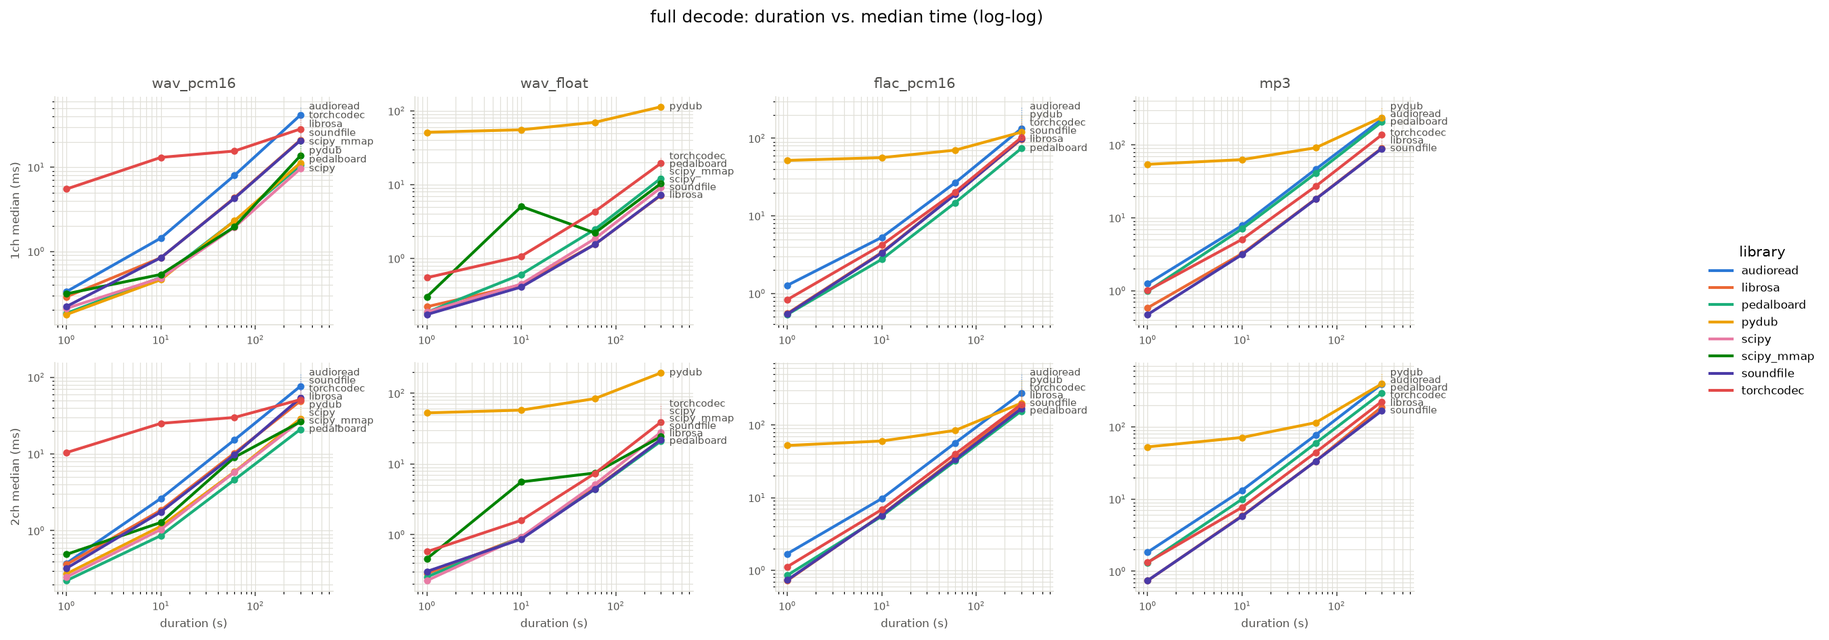
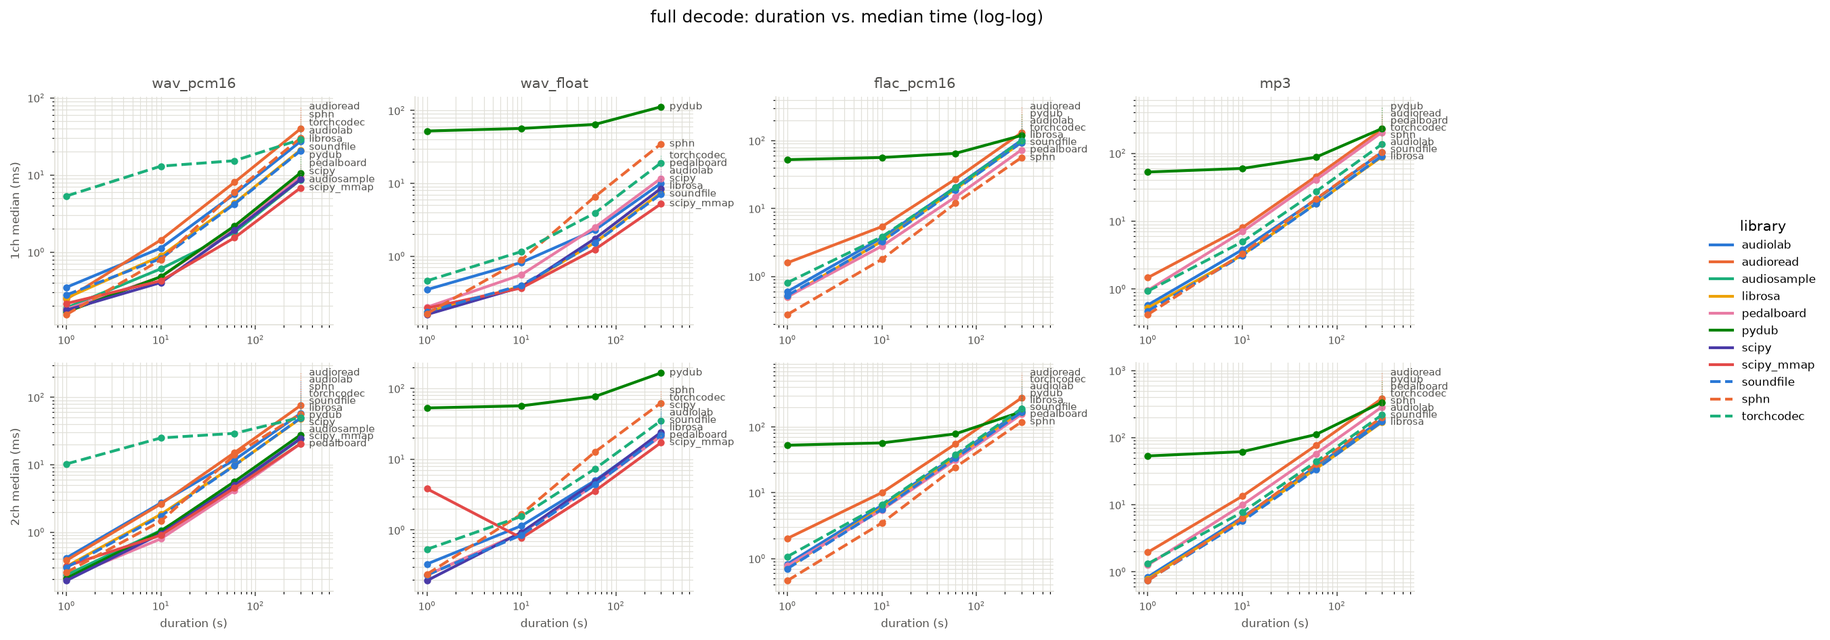
Add audiolab, audiosample and sphn; re-measure with eleven libraries
sphn is the strongest seeker by a wide margin on compressed formats:
0.98 ms for a 1 s excerpt of a 300 s MP3 against pedalboard's 92.01 ms,
and essentially flat with file duration. It is also the fastest full-file
FLAC reader, though near the back of the field on whole WAV files.

audiosample handles integer-PCM WAV only here; float WAV, FLAC and MP3
route through its PyAV path, which raises against PyAV 18. Those results
are reported as errors with that reason rather than hidden.

diff --git a/pabench/loaders.py b/pabench/loaders.py
@@ -495,7 +495,14 @@ def _probe_audiosample() -> Loader:
     name = "audiosample"
     layout: Layout = "channels_first"
     formats = _WAV_ONLY
-    notes = "WAV only here: its PyAV path is incompatible with PyAV 18 (Flags.FAST_SEEK)"
+    # Its own parser handles integer-PCM WAV; everything else (float WAV, flac, mp3)
+    # falls through to PyAV, which raises AttributeError against PyAV 18. Declared
+    # WAV-only at container level, so float WAV still reaches the loader and is
+    # reported as an error with that reason rather than hidden.
+    notes = (
+        "integer-PCM WAV only: float WAV, FLAC and MP3 go through its PyAV path, "
+        "which is incompatible with PyAV 18 (Flags.FAST_SEEK)"
+    )
     try:
         import audiosample
         from audiosample import AudioSample

diff --git a/results/report.md b/results/report.md
@@ -25,112 +25,115 @@ Timings below are wall-clock, warm-page-cache decodes of a locally generated **s
 | audioread | 3.1.0 | yes | no | full-file only, no seek API; audioread always yields 16-bit PCM buffers, so it cannot pass the exact gate for 24-bit or float32 WAV sources | - |
 | pedalboard | 0.9.25 | yes | yes | - | - |
 | torchcodec | 0.16.0 | yes | yes | imports cleanly even when its native FFmpeg bindings can't load; only the decode smoke test below catches that (see docs/refactor-design.md) | - |
+| audiolab | 0.5.2 | yes | yes | - | - |
+| audiosample | 2.2.12 | yes | yes | WAV only here: its PyAV path is incompatible with PyAV 18 (Flags.FAST_SEEK) | - |
+| sphn | 0.2.1 | yes | yes | MP3 decode returns a different frame count than soundfile's reference (decoder-delay disagreement); graded by the relaxed MP3 gate | - |
 
 **MP3 is graded by a relaxed gate** (decoded duration within 50 ms of the reference, RMS level within 0.5 dB on the common length) rather than the sample-exact gate WAV and FLAC are held to (1.5 LSB for integer PCM, `atol=1e-7` for float32), because MP3 decoders disagree on encoder delay and never match sample-for-sample. MP3 results therefore carry a weaker correctness guarantee than the WAV/FLAC results in this report.
 
 ## wav_pcm16 / full
 
-| Duration (s) | Channels | soundfile | librosa | scipy | scipy_mmap | pydub | audioread | pedalboard | torchcodec |
-| --- | --- | --- | --- | --- | --- | --- | --- | --- | --- |
-| 1 | 1 | 0.22 ms [0.21–0.26] | 0.29 ms [0.22–5.96] | 0.21 ms [0.15–0.48] | 0.31 ms [0.26–4.94] | 0.18 ms [0.15–0.23] | 0.33 ms [0.31–0.41] | 0.18 ms [0.17–0.56] | 5.51 ms [5.48–6.04] |
-| 1 | 2 | 0.32 ms [0.31–0.59] | 0.36 ms [0.32–0.41] | 0.25 ms [0.22–3.72] | 0.49 ms [0.35–5.30] | 0.27 ms [0.21–0.34] | 0.38 ms [0.36–0.45] | 0.22 ms [0.20–0.32] | 10.42 ms [10.21–11.18] |
-| 10 | 1 | 0.84 ms [0.82–0.90] | 0.84 ms [0.81–0.93] | 0.48 ms [0.44–1.67] | 0.53 ms [0.48–4.19] | 0.46 ms [0.43–0.51] | 1.44 ms [1.37–1.68] | 0.49 ms [0.46–0.54] | 13.09 ms [12.91–13.34] |
-| 10 | 2 | 1.76 ms [1.73–1.85] | 1.85 ms [1.79–5.88] | 1.04 ms [0.98–1.42] | 1.28 ms [0.95–6.14] | 1.14 ms [1.04–1.53] | 2.64 ms [2.62–2.77] | 0.86 ms [0.83–1.07] | 25.06 ms [24.85–27.82] |
-| 60 | 1 | 4.27 ms [4.24–4.71] | 4.33 ms [4.28–4.63] | 1.93 ms [1.86–21.95] | 1.96 ms [1.65–7.55] | 2.31 ms [2.19–5.00] | 7.99 ms [7.87–8.37] | 2.30 ms [2.07–2.94] | 15.58 ms [15.39–18.32] |
-| 60 | 2 | 9.77 ms [9.62–10.26] | 10.26 ms [9.90–19.80] | 5.78 ms [5.10–7.10] | 9.04 ms [4.87–11.30] | 5.85 ms [5.60–6.28] | 15.24 ms [14.94–16.34] | 4.60 ms [4.13–5.14] | 29.91 ms [29.15–65.78] |
-| 300 | 1 | 20.83 ms [20.60–58.89] | 21.12 ms [20.70–28.87] | 9.62 ms [8.82–15.62] | 13.70 ms [8.86–16.42] | 11.30 ms [10.35–18.28] | 41.71 ms [40.71–49.22] | 10.52 ms [9.63–13.69] | 28.48 ms [27.74–38.63] |
-| 300 | 2 | 53.84 ms [48.05–144.48] | 49.15 ms [48.19–51.03] | 26.98 ms [24.35–32.47] | 26.23 ms [25.13–42.16] | 28.88 ms [27.91–116.00] | 76.42 ms [74.45–87.67] | 20.96 ms [20.21–25.25] | 51.12 ms [49.80–67.43] |
+| Duration (s) | Channels | soundfile | librosa | scipy | scipy_mmap | pydub | audioread | pedalboard | torchcodec | audiolab | audiosample | sphn |
+| --- | --- | --- | --- | --- | --- | --- | --- | --- | --- | --- | --- | --- |
+| 1 | 1 | 0.28 ms [0.25–0.50] | 0.25 ms [0.22–0.34] | 0.18 ms [0.15–0.26] | 0.22 ms [0.17–4.63] | 0.17 ms [0.15–0.24] | 0.25 ms [0.24–0.27] | 0.18 ms [0.17–0.23] | 5.34 ms [5.32–5.66] | 0.35 ms [0.32–0.47] | 0.19 ms [0.14–0.41] | 0.16 ms [0.13–0.19] |
+| 1 | 2 | 0.30 ms [0.28–0.38] | 0.31 ms [0.29–0.37] | 0.19 ms [0.18–0.22] | 0.31 ms [0.24–7.13] | 0.21 ms [0.20–0.25] | 0.38 ms [0.36–3.96] | 0.21 ms [0.20–0.23] | 10.27 ms [10.21–10.53] | 0.42 ms [0.41–0.49] | 0.23 ms [0.19–0.46] | 0.25 ms [0.22–0.34] |
+| 10 | 1 | 0.83 ms [0.79–1.03] | 0.89 ms [0.86–1.30] | 0.40 ms [0.37–0.46] | 0.43 ms [0.38–5.92] | 0.48 ms [0.45–0.59] | 1.44 ms [1.41–1.49] | 0.48 ms [0.44–0.56] | 13.04 ms [12.92–13.49] | 1.13 ms [1.12–1.28] | 0.61 ms [0.38–3.77] | 0.80 ms [0.77–0.93] |
+| 10 | 2 | 1.74 ms [1.71–1.88] | 1.84 ms [1.76–2.24] | 0.95 ms [0.93–1.03] | 0.90 ms [0.85–5.22] | 1.04 ms [1.01–1.20] | 2.63 ms [2.61–4.32] | 0.80 ms [0.79–0.91] | 24.97 ms [24.82–25.40] | 2.72 ms [2.17–6.50] | 1.06 ms [0.93–1.23] | 1.46 ms [1.43–2.20] |
+| 60 | 1 | 4.21 ms [4.17–4.43] | 4.32 ms [4.26–4.56] | 1.92 ms [1.80–2.47] | 1.53 ms [1.48–6.94] | 2.19 ms [2.11–2.66] | 8.04 ms [7.92–8.24] | 2.09 ms [2.05–2.45] | 15.32 ms [15.11–16.75] | 5.67 ms [5.65–6.15] | 1.80 ms [1.74–2.14] | 6.01 ms [5.86–6.96] |
+| 60 | 2 | 9.72 ms [9.60–10.90] | 9.80 ms [9.64–10.24] | 4.97 ms [4.90–5.78] | 4.54 ms [4.26–8.70] | 5.63 ms [5.50–5.99] | 15.12 ms [15.03–15.65] | 4.16 ms [4.11–4.53] | 29.18 ms [28.96–83.96] | 11.81 ms [11.74–12.34] | 4.84 ms [4.77–6.59] | 13.96 ms [12.59–15.06] |
+| 300 | 1 | 20.58 ms [20.29–21.89] | 21.09 ms [20.80–23.60] | 8.75 ms [8.63–10.35] | 6.81 ms [6.64–11.28] | 10.66 ms [10.22–11.64] | 39.72 ms [38.98–43.85] | 9.58 ms [9.50–10.44] | 28.88 ms [28.03–37.55] | 27.24 ms [27.13–29.67] | 8.69 ms [8.54–9.00] | 30.14 ms [27.95–39.80] |
+| 300 | 2 | 49.09 ms [47.62–60.08] | 48.51 ms [47.61–112.25] | 24.52 ms [24.13–28.89] | 20.55 ms [20.26–25.37] | 27.69 ms [27.45–30.02] | 75.30 ms [74.54–141.86] | 20.46 ms [20.28–22.37] | 50.31 ms [49.64–53.31] | 57.38 ms [57.23–75.56] | 24.18 ms [23.92–27.51] | 56.77 ms [54.82–142.82] |
 
 ## wav_pcm16 / seek
 
-| Duration (s) | Channels | soundfile | librosa | scipy | scipy_mmap | pydub | audioread | pedalboard | torchcodec |
-| --- | --- | --- | --- | --- | --- | --- | --- | --- | --- |
-| 1 | 1 | 0.26 ms [0.24–0.29] | 0.28 ms [0.22–0.56] | unsupported | 0.33 ms [0.24–4.91] | unsupported | unsupported | 0.18 ms [0.17–3.72] | 5.43 ms [5.29–7.66] |
-| 1 | 2 | 0.38 ms [0.35–13.82] | 0.37 ms [0.31–0.57] | unsupported | 0.42 ms [0.33–4.72] | unsupported | unsupported | 0.24 ms [0.20–0.30] | 10.26 ms [10.16–10.45] |
-| 10 | 1 | 0.27 ms [0.25–0.33] | 0.22 ms [0.21–0.34] | unsupported | 0.33 ms [0.25–4.83] | unsupported | unsupported | 0.24 ms [0.22–0.30] | 12.46 ms [12.34–14.25] |
-| 10 | 2 | 0.36 ms [0.34–0.43] | 0.34 ms [0.32–0.38] | unsupported | 5.00 ms [3.90–6.37] | unsupported | unsupported | 0.26 ms [0.21–0.30] | 24.22 ms [24.05–25.60] |
-| 60 | 1 | 0.27 ms [0.26–0.33] | 0.25 ms [0.22–0.30] | unsupported | 0.36 ms [0.31–5.92] | unsupported | unsupported | 0.20 ms [0.17–0.24] | 12.33 ms [12.22–12.97] |
-| 60 | 2 | 0.35 ms [0.35–0.36] | 0.37 ms [0.33–0.49] | unsupported | 0.60 ms [0.41–6.48] | unsupported | unsupported | 0.26 ms [0.20–0.42] | 24.91 ms [24.25–26.37] |
-| 300 | 1 | 0.33 ms [0.27–0.41] | 0.26 ms [0.23–0.30] | unsupported | 5.30 ms [0.56–10.35] | unsupported | unsupported | 0.21 ms [0.17–0.33] | 14.62 ms [12.37–26.70] |
-| 300 | 2 | 0.36 ms [0.35–0.37] | 0.40 ms [0.34–3.42] | unsupported | 5.08 ms [4.36–12.77] | unsupported | unsupported | 0.22 ms [0.19–1.42] | 25.09 ms [24.32–28.94] |
+| Duration (s) | Channels | soundfile | librosa | scipy | scipy_mmap | pydub | audioread | pedalboard | torchcodec | audiolab | audiosample | sphn |
+| --- | --- | --- | --- | --- | --- | --- | --- | --- | --- | --- | --- | --- |
+| 1 | 1 | 0.27 ms [0.26–0.38] | 0.24 ms [0.22–0.29] | unsupported | 0.23 ms [0.19–6.01] | unsupported | unsupported | 0.18 ms [0.17–0.23] | 5.29 ms [5.25–5.41] | 0.46 ms [0.38–5.70] | 0.20 ms [0.16–0.24] | 0.15 ms [0.14–6.92] |
+| 1 | 2 | 0.37 ms [0.33–0.47] | 0.33 ms [0.30–0.36] | unsupported | 0.27 ms [0.24–5.22] | unsupported | unsupported | 0.20 ms [0.18–0.21] | 10.21 ms [10.16–10.60] | 0.40 ms [0.38–0.47] | 0.24 ms [0.22–0.33] | 0.25 ms [0.21–0.36] |
+| 10 | 1 | 0.33 ms [0.28–0.58] | 0.22 ms [0.21–0.27] | unsupported | 3.93 ms [0.22–5.55] | unsupported | unsupported | 0.22 ms [0.19–0.26] | 12.57 ms [12.33–14.17] | 0.34 ms [0.30–0.58] | 0.22 ms [0.15–0.50] | 0.14 ms [0.13–0.17] |
+| 10 | 2 | 0.34 ms [0.33–0.37] | 0.37 ms [0.33–0.41] | unsupported | 0.27 ms [0.22–4.94] | unsupported | unsupported | 0.22 ms [0.20–0.28] | 24.14 ms [23.91–25.71] | 0.42 ms [0.40–0.54] | 0.27 ms [0.22–0.34] | 0.25 ms [0.22–0.42] |
+| 60 | 1 | 0.26 ms [0.24–0.42] | 0.23 ms [0.21–5.12] | unsupported | 0.28 ms [0.26–6.78] | unsupported | unsupported | 0.19 ms [0.17–0.29] | 12.29 ms [12.15–12.87] | 0.31 ms [0.27–0.69] | 0.15 ms [0.14–0.21] | 0.14 ms [0.13–0.22] |
+| 60 | 2 | 0.34 ms [0.32–0.41] | 0.31 ms [0.30–0.37] | unsupported | 0.39 ms [0.34–5.35] | unsupported | unsupported | 0.22 ms [0.21–0.27] | 24.69 ms [24.29–27.87] | 0.40 ms [0.38–0.49] | 0.23 ms [0.20–0.29] | 0.22 ms [0.22–0.26] |
+| 300 | 1 | 0.25 ms [0.25–0.35] | 0.25 ms [0.21–2.63] | unsupported | 0.40 ms [0.39–5.21] | unsupported | unsupported | 0.17 ms [0.16–0.31] | 13.86 ms [12.47–21.73] | 0.29 ms [0.29–0.33] | 0.15 ms [0.14–1.31] | 0.18 ms [0.15–0.23] |
+| 300 | 2 | 0.37 ms [0.35–1.96] | 0.32 ms [0.30–0.38] | unsupported | 0.73 ms [0.61–5.04] | unsupported | unsupported | 0.23 ms [0.20–0.29] | 24.20 ms [24.13–24.38] | 0.38 ms [0.38–0.43] | 0.20 ms [0.19–4.91] | 0.22 ms [0.21–0.25] |
 
 ## wav_float / full
 
-| Duration (s) | Channels | soundfile | librosa | scipy | scipy_mmap | pydub | audioread | pedalboard | torchcodec |
-| --- | --- | --- | --- | --- | --- | --- | --- | --- | --- |
-| 1 | 1 | 0.17 ms [0.16–0.23] | 0.22 ms [0.18–0.29] | 0.19 ms [0.16–3.27] | 0.30 ms [0.24–5.13] | 51.27 ms [50.06–55.57] | incorrect | 0.19 ms [0.17–0.33] | 0.55 ms [0.46–0.68] |
-| 1 | 2 | 0.30 ms [0.24–0.53] | 0.28 ms [0.24–0.31] | 0.22 ms [0.20–0.34] | 0.46 ms [0.32–5.70] | 52.79 ms [51.30–61.63] | incorrect | 0.25 ms [0.22–0.32] | 0.57 ms [0.52–0.68] |
-| 10 | 1 | 0.41 ms [0.38–0.53] | 0.44 ms [0.40–0.94] | 0.45 ms [0.41–0.62] | 5.06 ms [0.54–6.34] | 55.47 ms [52.07–99.77] | incorrect | 0.61 ms [0.54–0.86] | 1.07 ms [1.03–1.76] |
-| 10 | 2 | 0.87 ms [0.80–0.88] | 0.92 ms [0.87–1.07] | 0.93 ms [0.88–1.26] | 5.58 ms [4.99–7.16] | 57.75 ms [56.80–89.28] | incorrect | 0.93 ms [0.89–1.03] | 1.60 ms [1.55–1.79] |
-| 60 | 1 | 1.55 ms [1.53–1.99] | 1.55 ms [1.50–1.62] | 1.85 ms [1.66–2.20] | 2.22 ms [1.21–7.88] | 69.97 ms [66.10–97.89] | incorrect | 2.47 ms [2.40–2.70] | 4.32 ms [4.11–4.87] |
-| 60 | 2 | 4.44 ms [4.34–4.55] | 4.57 ms [4.46–5.77] | 5.14 ms [4.87–6.47] | 7.45 ms [4.08–9.91] | 83.95 ms [81.17–102.48] | incorrect | 4.39 ms [4.31–4.62] | 7.35 ms [6.96–8.36] |
-| 300 | 1 | 7.24 ms [7.06–8.14] | 7.16 ms [7.02–8.63] | 9.08 ms [8.76–14.21] | 10.34 ms [5.48–12.42] | 113.60 ms [109.21–146.03] | incorrect | 12.18 ms [11.53–44.72] | 19.46 ms [17.93–28.99] |
-| 300 | 2 | 22.10 ms [21.44–24.58] | 21.95 ms [21.69–25.14] | 28.09 ms [27.10–31.53] | 24.32 ms [21.95–30.74] | 194.07 ms [174.12–398.60] | incorrect | 20.96 ms [20.82–22.30] | 39.05 ms [34.59–43.79] |
+| Duration (s) | Channels | soundfile | librosa | scipy | scipy_mmap | pydub | audioread | pedalboard | torchcodec | audiolab | audiosample | sphn |
+| --- | --- | --- | --- | --- | --- | --- | --- | --- | --- | --- | --- | --- |
+| 1 | 1 | 0.17 ms [0.16–0.22] | 0.17 ms [0.16–0.22] | 0.16 ms [0.14–4.21] | 0.19 ms [0.18–4.88] | 52.27 ms [51.46–57.23] | incorrect | 0.20 ms [0.18–2.52] | 0.46 ms [0.45–0.51] | 0.35 ms [0.30–0.39] | error | 0.16 ms [0.15–3.05] |
+| 1 | 2 | 0.23 ms [0.20–0.30] | 0.23 ms [0.20–0.39] | 0.19 ms [0.18–0.25] | 3.83 ms [0.23–5.58] | 53.05 ms [51.64–59.05] | incorrect | 0.23 ms [0.21–0.30] | 0.53 ms [0.49–0.66] | 0.33 ms [0.31–0.37] | error | 0.24 ms [0.23–0.29] |
+| 10 | 1 | 0.40 ms [0.37–0.44] | 0.39 ms [0.33–0.46] | 0.38 ms [0.36–0.42] | 0.37 ms [0.34–4.97] | 56.66 ms [53.99–66.11] | incorrect | 0.56 ms [0.53–0.60] | 1.16 ms [1.07–1.24] | 0.82 ms [0.66–2.96] | error | 0.89 ms [0.87–1.02] |
+| 10 | 2 | 0.85 ms [0.80–0.93] | 0.91 ms [0.85–2.07] | 0.93 ms [0.88–1.16] | 0.77 ms [0.72–5.68] | 56.76 ms [55.81–59.38] | incorrect | 0.91 ms [0.88–1.12] | 1.56 ms [1.48–1.62] | 1.15 ms [1.11–3.31] | error | 1.68 ms [1.52–2.12] |
+| 60 | 1 | 1.53 ms [1.46–1.62] | 1.54 ms [1.49–3.83] | 1.75 ms [1.64–1.92] | 1.24 ms [1.06–9.99] | 64.38 ms [62.94–73.10] | incorrect | 2.49 ms [2.34–2.75] | 3.92 ms [3.84–4.10] | 2.29 ms [2.22–2.42] | error | 6.58 ms [6.31–7.57] |
+| 60 | 2 | 4.38 ms [4.30–4.49] | 4.44 ms [4.36–5.20] | 4.81 ms [4.76–5.51] | 3.57 ms [3.42–7.86] | 76.83 ms [75.53–82.36] | incorrect | 4.37 ms [4.30–6.26] | 7.32 ms [6.86–9.66] | 4.99 ms [4.89–5.12] | error | 12.67 ms [12.45–14.06] |
+| 300 | 1 | 7.14 ms [6.95–8.61] | 7.49 ms [6.99–7.87] | 8.52 ms [8.20–9.76] | 5.23 ms [4.90–9.89] | 112.29 ms [108.94–128.94] | incorrect | 11.71 ms [11.50–12.95] | 19.10 ms [18.27–27.48] | 10.01 ms [9.91–10.30] | error | 34.73 ms [31.17–40.93] |
+| 300 | 2 | 21.76 ms [21.37–23.40] | 21.63 ms [21.33–22.78] | 24.03 ms [23.81–27.23] | 17.15 ms [16.37–22.00] | 165.81 ms [163.12–183.86] | incorrect | 21.26 ms [20.94–64.23] | 34.96 ms [33.31–36.52] | 23.15 ms [23.03–24.69] | error | 62.42 ms [58.59–79.63] |
 
 ## wav_float / seek
 
-| Duration (s) | Channels | soundfile | librosa | scipy | scipy_mmap | pydub | audioread | pedalboard | torchcodec |
-| --- | --- | --- | --- | --- | --- | --- | --- | --- | --- |
-| 1 | 1 | 0.23 ms [0.21–0.31] | 0.23 ms [0.18–0.50] | unsupported | 0.34 ms [0.26–4.69] | unsupported | unsupported | 0.26 ms [0.19–5.46] | 0.43 ms [0.38–0.56] |
-| 1 | 2 | 0.32 ms [0.29–0.39] | 0.30 ms [0.25–0.40] | unsupported | 0.35 ms [0.31–4.81] | unsupported | unsupported | 0.28 ms [0.23–0.33] | 0.57 ms [0.47–2.50] |
-| 10 | 1 | 0.25 ms [0.23–0.32] | 0.24 ms [0.19–0.37] | unsupported | 4.23 ms [0.27–7.74] | unsupported | unsupported | 0.22 ms [0.18–0.33] | 0.52 ms [0.49–0.63] |
-| 10 | 2 | 0.29 ms [0.27–0.33] | 0.25 ms [0.23–0.30] | unsupported | 4.23 ms [0.37–7.04] | unsupported | unsupported | 0.23 ms [0.20–0.30] | 0.76 ms [0.67–0.94] |
-| 60 | 1 | 0.23 ms [0.20–0.74] | 0.22 ms [0.17–0.40] | unsupported | 5.78 ms [0.33–24.77] | unsupported | unsupported | 0.25 ms [0.20–0.29] | 0.52 ms [0.48–0.63] |
-| 60 | 2 | 0.28 ms [0.26–0.34] | 0.29 ms [0.24–3.37] | unsupported | 4.10 ms [0.49–6.34] | unsupported | unsupported | 0.29 ms [0.23–0.52] | 0.75 ms [0.63–2.20] |
-| 300 | 1 | 0.25 ms [0.23–1.80] | 0.18 ms [0.17–0.40] | unsupported | 5.24 ms [4.13–9.11] | unsupported | unsupported | 0.25 ms [0.21–0.31] | 0.52 ms [0.48–0.65] |
-| 300 | 2 | 0.36 ms [0.32–0.54] | 0.29 ms [0.23–0.43] | unsupported | 5.58 ms [5.02–6.10] | unsupported | unsupported | 0.23 ms [0.22–0.25] | 0.75 ms [0.69–0.88] |
+| Duration (s) | Channels | soundfile | librosa | scipy | scipy_mmap | pydub | audioread | pedalboard | torchcodec | audiolab | audiosample | sphn |
+| --- | --- | --- | --- | --- | --- | --- | --- | --- | --- | --- | --- | --- |
+| 1 | 1 | 0.26 ms [0.22–0.34] | 0.23 ms [0.18–0.71] | unsupported | 0.20 ms [0.19–10.13] | unsupported | unsupported | 0.20 ms [0.18–3.90] | 0.41 ms [0.37–0.53] | 0.29 ms [0.26–0.34] | error | 0.16 ms [0.15–0.19] |
+| 1 | 2 | 0.27 ms [0.26–0.33] | 0.26 ms [0.22–0.28] | unsupported | 4.75 ms [0.24–9.11] | unsupported | unsupported | 0.23 ms [0.22–0.27] | 0.52 ms [0.42–1.79] | 0.32 ms [0.30–0.35] | error | 0.25 ms [0.23–0.31] |
+| 10 | 1 | 0.23 ms [0.22–0.76] | 0.18 ms [0.16–0.24] | unsupported | 0.23 ms [0.21–4.68] | unsupported | unsupported | 0.24 ms [0.20–0.32] | 0.54 ms [0.50–0.81] | 0.38 ms [0.32–0.61] | error | 0.16 ms [0.15–0.20] |
+| 10 | 2 | 0.27 ms [0.25–0.33] | 0.25 ms [0.22–0.29] | unsupported | 0.29 ms [0.26–4.71] | unsupported | unsupported | 0.27 ms [0.24–0.29] | 0.61 ms [0.59–0.70] | 0.39 ms [0.35–0.42] | error | 0.24 ms [0.22–0.28] |
+| 60 | 1 | 0.22 ms [0.21–0.25] | 0.18 ms [0.16–0.24] | unsupported | 0.32 ms [0.28–4.98] | unsupported | unsupported | 0.20 ms [0.19–0.25] | 0.50 ms [0.48–0.67] | 0.26 ms [0.24–0.33] | error | 0.16 ms [0.15–0.16] |
+| 60 | 2 | 0.29 ms [0.28–0.71] | 0.23 ms [0.21–0.26] | unsupported | 0.41 ms [0.35–5.15] | unsupported | unsupported | 0.23 ms [0.22–0.29] | 0.66 ms [0.61–0.77] | 0.33 ms [0.32–0.40] | error | 0.22 ms [0.22–0.26] |
+| 300 | 1 | 0.22 ms [0.21–0.25] | 0.21 ms [0.18–2.09] | unsupported | 0.59 ms [0.55–5.95] | unsupported | unsupported | 0.19 ms [0.17–0.24] | 0.60 ms [0.57–0.74] | 0.24 ms [0.24–0.34] | error | 0.17 ms [0.15–0.20] |
+| 300 | 2 | 0.29 ms [0.26–0.35] | 0.27 ms [0.23–0.29] | unsupported | 0.95 ms [0.91–5.50] | unsupported | unsupported | 0.27 ms [0.23–0.37] | 0.64 ms [0.60–1.02] | 0.31 ms [0.30–3.21] | error | 0.24 ms [0.23–0.39] |
 
 ## flac_pcm16 / full
 
-| Duration (s) | Channels | soundfile | librosa | scipy | scipy_mmap | pydub | audioread | pedalboard | torchcodec |
-| --- | --- | --- | --- | --- | --- | --- | --- | --- | --- |
-| 1 | 1 | 0.54 ms [0.48–0.76] | 0.55 ms [0.49–1.21] | unsupported | unsupported | 51.84 ms [50.75–56.23] | 1.27 ms [1.21–3.12] | 0.54 ms [0.49–0.68] | 0.83 ms [0.79–0.89] |
-| 1 | 2 | 0.74 ms [0.72–0.82] | 0.72 ms [0.71–0.85] | unsupported | unsupported | 52.15 ms [50.84–56.54] | 1.69 ms [1.65–5.68] | 0.86 ms [0.78–0.95] | 1.12 ms [1.07–1.64] |
-| 10 | 1 | 3.32 ms [3.29–3.41] | 3.38 ms [3.31–4.11] | unsupported | unsupported | 56.24 ms [54.12–61.60] | 5.28 ms [5.15–6.65] | 2.75 ms [2.67–3.54] | 4.20 ms [3.95–4.70] |
-| 10 | 2 | 5.74 ms [5.69–6.21] | 5.82 ms [5.72–6.31] | unsupported | unsupported | 60.10 ms [57.36–67.17] | 9.70 ms [9.64–9.79] | 5.55 ms [5.44–8.13] | 6.85 ms [6.79–7.73] |
-| 60 | 1 | 18.89 ms [18.86–19.02] | 19.10 ms [18.89–21.53] | unsupported | unsupported | 70.23 ms [67.63–84.55] | 26.74 ms [26.51–29.36] | 14.79 ms [14.73–15.61] | 20.38 ms [20.22–23.17] |
-| 60 | 2 | 33.41 ms [33.24–33.74] | 34.68 ms [33.40–49.38] | unsupported | unsupported | 84.19 ms [78.48–99.21] | 56.61 ms [55.23–67.12] | 31.90 ms [31.32–39.87] | 39.77 ms [38.07–43.32] |
-| 300 | 1 | 98.70 ms [94.08–105.84] | 96.62 ms [94.40–104.16] | unsupported | unsupported | 119.82 ms [116.04–131.74] | 133.06 ms [130.79–150.01] | 73.90 ms [72.84–110.20] | 101.82 ms [99.33–109.73] |
-| 300 | 2 | 167.35 ms [165.88–217.79] | 184.29 ms [176.02–289.85] | unsupported | unsupported | 198.82 ms [189.51–235.42] | 272.25 ms [267.67–284.09] | 155.07 ms [154.22–240.52] | 191.98 ms [189.80–304.95] |
+| Duration (s) | Channels | soundfile | librosa | scipy | scipy_mmap | pydub | audioread | pedalboard | torchcodec | audiolab | audiosample | sphn |
+| --- | --- | --- | --- | --- | --- | --- | --- | --- | --- | --- | --- | --- |
+| 1 | 1 | 0.52 ms [0.46–0.57] | 0.50 ms [0.45–0.92] | unsupported | unsupported | 52.51 ms [51.79–55.32] | 1.59 ms [1.42–1.85] | 0.50 ms [0.46–0.56] | 0.81 ms [0.74–0.88] | 0.60 ms [0.56–0.76] | unsupported | 0.27 ms [0.26–0.31] |
+| 1 | 2 | 0.70 ms [0.68–0.79] | 0.73 ms [0.72–2.38] | unsupported | unsupported | 52.79 ms [51.76–54.61] | 2.02 ms [1.92–2.08] | 0.77 ms [0.75–0.83] | 1.07 ms [1.01–1.22] | 0.83 ms [0.81–0.86] | unsupported | 0.46 ms [0.45–0.77] |
+| 10 | 1 | 3.25 ms [3.21–5.05] | 3.31 ms [3.27–3.48] | unsupported | unsupported | 56.43 ms [53.70–57.64] | 5.41 ms [5.28–5.47] | 2.79 ms [2.69–3.24] | 3.84 ms [3.71–4.19] | 3.70 ms [3.63–4.04] | unsupported | 1.78 ms [1.76–1.83] |
+| 10 | 2 | 5.62 ms [5.60–5.88] | 5.91 ms [5.78–6.11] | unsupported | unsupported | 57.15 ms [55.65–61.68] | 10.04 ms [10.00–10.20] | 5.49 ms [5.38–5.80] | 6.65 ms [6.46–6.88] | 6.42 ms [6.23–30.99] | unsupported | 3.47 ms [3.43–3.55] |
+| 60 | 1 | 18.84 ms [18.78–19.02] | 19.32 ms [19.13–78.35] | unsupported | unsupported | 64.94 ms [64.10–72.27] | 27.11 ms [26.91–28.42] | 14.78 ms [14.66–15.65] | 20.26 ms [20.04–22.14] | 20.68 ms [20.56–21.06] | unsupported | 11.94 ms [11.28–12.58] |
+| 60 | 2 | 33.34 ms [33.16–35.28] | 33.89 ms [33.28–35.53] | unsupported | unsupported | 78.41 ms [76.44–96.66] | 54.90 ms [54.84–58.48] | 31.37 ms [31.08–90.24] | 37.99 ms [37.70–39.18] | 35.91 ms [35.54–38.37] | unsupported | 24.45 ms [24.09–26.07] |
+| 300 | 1 | 94.15 ms [93.57–96.89] | 94.18 ms [93.72–166.59] | unsupported | unsupported | 119.20 ms [117.53–129.70] | 130.81 ms [130.27–135.84] | 73.13 ms [72.74–76.40] | 100.61 ms [99.11–107.08] | 101.49 ms [101.19–103.78] | unsupported | 56.33 ms [52.27–58.66] |
+| 300 | 2 | 167.03 ms [165.91–172.12] | 167.57 ms [165.73–253.17] | unsupported | unsupported | 170.06 ms [167.44–183.97] | 274.97 ms [270.58–404.50] | 155.12 ms [154.21–216.37] | 188.90 ms [187.50–192.71] | 179.27 ms [177.54–184.40] | unsupported | 119.33 ms [115.71–126.65] |
 
 ## flac_pcm16 / seek
 
-| Duration (s) | Channels | soundfile | librosa | scipy | scipy_mmap | pydub | audioread | pedalboard | torchcodec |
-| --- | --- | --- | --- | --- | --- | --- | --- | --- | --- |
-| 1 | 1 | 0.54 ms [0.49–1.07] | 0.60 ms [0.51–0.80] | unsupported | unsupported | unsupported | unsupported | 0.59 ms [0.50–0.70] | 0.86 ms [0.75–1.28] |
-| 1 | 2 | 0.78 ms [0.76–1.22] | 0.74 ms [0.70–0.85] | unsupported | unsupported | unsupported | unsupported | 0.87 ms [0.81–1.05] | 1.04 ms [0.97–1.47] |
-| 10 | 1 | 0.60 ms [0.58–0.68] | 0.60 ms [0.56–0.94] | unsupported | unsupported | unsupported | unsupported | 0.60 ms [0.52–0.73] | 1.43 ms [1.31–2.24] |
-| 10 | 2 | 0.89 ms [0.86–1.36] | 0.87 ms [0.83–0.91] | unsupported | unsupported | unsupported | unsupported | 0.94 ms [0.89–2.23] | 2.59 ms [2.53–2.95] |
-| 60 | 1 | 0.55 ms [0.54–0.59] | 0.54 ms [0.52–0.62] | unsupported | unsupported | unsupported | unsupported | 0.57 ms [0.50–0.86] | 1.24 ms [1.22–1.41] |
-| 60 | 2 | 0.91 ms [0.89–0.97] | 0.87 ms [0.84–0.93] | unsupported | unsupported | unsupported | unsupported | 0.90 ms [0.85–1.71] | 2.29 ms [2.17–2.45] |
-| 300 | 1 | 0.62 ms [0.55–2.66] | 0.56 ms [0.49–0.59] | unsupported | unsupported | unsupported | unsupported | 0.55 ms [0.50–4.36] | 1.40 ms [1.26–1.78] |
-| 300 | 2 | 0.91 ms [0.86–0.97] | 1.01 ms [0.95–2.35] | unsupported | unsupported | unsupported | unsupported | 0.86 ms [0.83–4.27] | 2.69 ms [2.58–3.49] |
+| Duration (s) | Channels | soundfile | librosa | scipy | scipy_mmap | pydub | audioread | pedalboard | torchcodec | audiolab | audiosample | sphn |
+| --- | --- | --- | --- | --- | --- | --- | --- | --- | --- | --- | --- | --- |
+| 1 | 1 | 0.53 ms [0.49–0.59] | 0.49 ms [0.46–0.55] | unsupported | unsupported | unsupported | unsupported | 0.49 ms [0.47–0.59] | 0.68 ms [0.66–0.80] | 0.57 ms [0.55–0.63] | unsupported | 0.27 ms [0.25–0.30] |
+| 1 | 2 | 0.76 ms [0.72–0.83] | 0.75 ms [0.71–1.00] | unsupported | unsupported | unsupported | unsupported | 0.77 ms [0.75–0.88] | 1.06 ms [1.01–1.11] | 0.84 ms [0.80–0.93] | unsupported | 0.47 ms [0.45–0.51] |
+| 10 | 1 | 0.61 ms [0.56–0.68] | 0.56 ms [0.54–0.60] | unsupported | unsupported | unsupported | unsupported | 0.54 ms [0.51–0.62] | 1.35 ms [1.28–1.48] | 0.70 ms [0.65–0.86] | unsupported | 0.26 ms [0.25–0.29] |
+| 10 | 2 | 0.83 ms [0.81–0.88] | 0.88 ms [0.83–2.81] | unsupported | unsupported | unsupported | unsupported | 0.85 ms [0.82–0.97] | 2.43 ms [2.41–2.82] | 0.98 ms [0.94–1.21] | unsupported | 0.49 ms [0.48–0.57] |
+| 60 | 1 | 0.53 ms [0.52–0.58] | 0.57 ms [0.51–0.61] | unsupported | unsupported | unsupported | unsupported | 0.55 ms [0.53–0.62] | 1.23 ms [1.17–1.35] | 0.63 ms [0.60–3.12] | unsupported | 0.29 ms [0.26–0.36] |
+| 60 | 2 | 0.86 ms [0.82–1.17] | 0.88 ms [0.86–0.96] | unsupported | unsupported | unsupported | unsupported | 0.87 ms [0.85–0.95] | 2.09 ms [2.05–2.31] | 0.97 ms [0.93–1.18] | unsupported | 0.53 ms [0.53–0.57] |
+| 300 | 1 | 0.55 ms [0.50–0.62] | 0.58 ms [0.55–2.45] | unsupported | unsupported | unsupported | unsupported | 0.54 ms [0.47–0.62] | 1.33 ms [1.26–1.49] | 0.58 ms [0.57–0.65] | unsupported | 0.30 ms [0.29–0.31] |
+| 300 | 2 | 0.90 ms [0.87–0.95] | 0.91 ms [0.85–1.20] | unsupported | unsupported | unsupported | unsupported | 0.86 ms [0.84–0.97] | 2.52 ms [2.50–2.73] | 0.97 ms [0.93–1.06] | unsupported | 0.53 ms [0.51–0.64] |
 
 ## mp3 / full
 
-| Duration (s) | Channels | soundfile | librosa | scipy | scipy_mmap | pydub | audioread | pedalboard | torchcodec |
-| --- | --- | --- | --- | --- | --- | --- | --- | --- | --- |
-| 1 | 1 | 0.47 ms [0.46–0.52] | 0.58 ms [0.54–0.96] | unsupported | unsupported | 54.15 ms [51.81–59.37] | 1.25 ms [1.22–1.38] | 0.98 ms [0.93–1.13] | 1.01 ms [0.94–1.39] |
-| 1 | 2 | 0.75 ms [0.73–0.83] | 0.74 ms [0.74–0.84] | unsupported | unsupported | 52.74 ms [51.67–65.89] | 1.84 ms [1.81–1.90] | 1.32 ms [1.24–1.66] | 1.33 ms [1.26–1.51] |
-| 10 | 1 | 3.14 ms [3.12–3.19] | 3.23 ms [3.16–3.32] | unsupported | unsupported | 62.77 ms [58.67–67.34] | 7.85 ms [7.77–8.36] | 7.09 ms [6.95–7.89] | 5.07 ms [4.95–5.63] |
-| 10 | 2 | 5.80 ms [5.75–7.12] | 5.89 ms [5.79–6.09] | unsupported | unsupported | 71.28 ms [62.60–87.88] | 13.24 ms [13.12–14.20] | 9.98 ms [9.80–11.15] | 7.69 ms [7.58–8.32] |
-| 60 | 1 | 17.99 ms [17.94–19.29] | 18.16 ms [17.93–18.75] | unsupported | unsupported | 91.25 ms [88.08–127.46] | 46.32 ms [44.44–48.22] | 40.61 ms [40.49–61.83] | 27.01 ms [26.90–27.40] |
-| 60 | 2 | 33.44 ms [33.28–36.18] | 33.51 ms [33.27–34.63] | unsupported | unsupported | 114.23 ms [110.05–247.10] | 76.87 ms [76.47–87.60] | 59.32 ms [57.18–72.01] | 44.20 ms [43.22–45.67] |
-| 300 | 1 | 88.85 ms [88.40–95.66] | 90.19 ms [88.64–94.17] | unsupported | unsupported | 238.11 ms [224.45–303.49] | 224.10 ms [221.17–230.83] | 205.29 ms [201.12–249.84] | 136.86 ms [133.24–172.14] |
-| 300 | 2 | 166.47 ms [165.09–182.81] | 188.37 ms [167.32–206.62] | unsupported | unsupported | 392.39 ms [370.31–444.28] | 388.06 ms [377.17–523.02] | 295.36 ms [285.01–352.72] | 223.56 ms [212.56–238.14] |
+| Duration (s) | Channels | soundfile | librosa | scipy | scipy_mmap | pydub | audioread | pedalboard | torchcodec | audiolab | audiosample | sphn |
+| --- | --- | --- | --- | --- | --- | --- | --- | --- | --- | --- | --- | --- |
+| 1 | 1 | 0.48 ms [0.45–0.53] | 0.53 ms [0.51–0.59] | unsupported | unsupported | 52.93 ms [51.88–54.50] | 1.48 ms [1.35–4.88] | 0.96 ms [0.93–1.05] | 0.93 ms [0.93–1.08] | 0.58 ms [0.55–0.67] | unsupported | 0.42 ms [0.41–0.45] |
+| 1 | 2 | 0.75 ms [0.70–0.84] | 0.79 ms [0.75–0.87] | unsupported | unsupported | 53.38 ms [52.30–63.46] | 1.96 ms [1.94–3.28] | 1.27 ms [1.23–1.43] | 1.33 ms [1.18–1.38] | 0.84 ms [0.83–0.89] | unsupported | 0.74 ms [0.73–0.79] |
+| 10 | 1 | 3.11 ms [3.00–3.24] | 3.18 ms [3.13–3.30] | unsupported | unsupported | 59.76 ms [58.10–65.93] | 8.03 ms [7.96–8.78] | 7.01 ms [6.97–7.17] | 4.97 ms [4.91–5.21] | 3.80 ms [3.67–4.23] | unsupported | 3.32 ms [3.27–3.40] |
+| 10 | 2 | 5.70 ms [5.66–6.73] | 6.08 ms [5.97–19.17] | unsupported | unsupported | 61.78 ms [60.85–66.84] | 13.42 ms [13.33–13.84] | 9.93 ms [9.80–10.47] | 7.76 ms [7.62–8.53] | 6.51 ms [6.40–7.46] | unsupported | 6.30 ms [6.26–6.35] |
+| 60 | 1 | 17.94 ms [17.88–18.56] | 18.23 ms [17.96–18.78] | unsupported | unsupported | 87.38 ms [86.25–94.61] | 45.50 ms [44.65–47.43] | 40.58 ms [40.43–42.52] | 27.24 ms [26.96–29.68] | 20.73 ms [20.67–21.83] | unsupported | 21.22 ms [20.88–24.22] |
+| 60 | 2 | 33.58 ms [33.28–35.62] | 34.25 ms [34.08–94.48] | unsupported | unsupported | 111.13 ms [108.01–174.25] | 76.49 ms [75.91–91.18] | 57.25 ms [57.11–59.95] | 43.77 ms [43.05–115.45] | 36.93 ms [36.80–39.93] | unsupported | 40.00 ms [39.30–42.85] |
+| 300 | 1 | 91.18 ms [88.69–105.64] | 88.89 ms [88.30–89.70] | unsupported | unsupported | 230.62 ms [227.47–236.87] | 224.83 ms [221.93–287.49] | 203.11 ms [200.81–221.72] | 135.52 ms [132.51–168.31] | 102.81 ms [102.20–107.69] | unsupported | 104.61 ms [100.93–108.14] |
+| 300 | 2 | 172.82 ms [167.14–330.79] | 169.59 ms [166.68–177.57] | unsupported | unsupported | 336.08 ms [329.03–403.17] | 381.93 ms [377.53–409.19] | 286.26 ms [284.31–292.03] | 217.86 ms [211.82–238.17] | 186.40 ms [182.83–193.41] | unsupported | 200.96 ms [197.15–208.19] |
 
 ## mp3 / seek
 
-| Duration (s) | Channels | soundfile | librosa | scipy | scipy_mmap | pydub | audioread | pedalboard | torchcodec |
-| --- | --- | --- | --- | --- | --- | --- | --- | --- | --- |
-| 1 | 1 | 0.56 ms [0.51–0.70] | 0.58 ms [0.56–0.86] | unsupported | unsupported | unsupported | unsupported | 1.03 ms [0.94–1.40] | 0.97 ms [0.87–1.35] |
-| 1 | 2 | 0.81 ms [0.80–0.95] | 0.74 ms [0.74–0.77] | unsupported | unsupported | unsupported | unsupported | 1.35 ms [1.23–1.83] | 1.28 ms [1.15–1.90] |
-| 10 | 1 | 0.72 ms [0.71–0.81] | 0.69 ms [0.66–1.56] | unsupported | unsupported | unsupported | unsupported | 4.76 ms [4.67–5.16] | 0.99 ms [0.97–1.64] |
-| 10 | 2 | 0.92 ms [0.91–1.00] | 0.93 ms [0.87–1.00] | unsupported | unsupported | unsupported | unsupported | 3.87 ms [3.80–5.99] | 1.28 ms [1.25–1.44] |
-| 60 | 1 | 1.78 ms [1.76–1.85] | 1.84 ms [1.76–2.05] | unsupported | unsupported | unsupported | unsupported | 29.66 ms [29.53–30.99] | 1.54 ms [1.51–3.67] |
-| 60 | 2 | 1.57 ms [1.53–1.64] | 1.54 ms [1.49–1.64] | unsupported | unsupported | unsupported | unsupported | 24.14 ms [23.91–32.21] | 1.78 ms [1.59–2.15] |
-| 300 | 1 | 3.36 ms [3.19–12.76] | 3.20 ms [3.10–4.27] | unsupported | unsupported | unsupported | unsupported | 62.12 ms [61.90–63.89] | 2.31 ms [2.18–2.93] |
-| 300 | 2 | 3.71 ms [3.58–4.95] | 3.84 ms [3.62–5.29] | unsupported | unsupported | unsupported | unsupported | 95.55 ms [92.04–101.98] | 2.77 ms [2.63–2.95] |
+| Duration (s) | Channels | soundfile | librosa | scipy | scipy_mmap | pydub | audioread | pedalboard | torchcodec | audiolab | audiosample | sphn |
+| --- | --- | --- | --- | --- | --- | --- | --- | --- | --- | --- | --- | --- |
+| 1 | 1 | 0.51 ms [0.49–0.55] | 0.50 ms [0.45–0.53] | unsupported | unsupported | unsupported | unsupported | 0.95 ms [0.93–1.05] | 0.85 ms [0.80–0.89] | 0.57 ms [0.56–1.62] | unsupported | 0.42 ms [0.40–0.58] |
+| 1 | 2 | 0.80 ms [0.76–0.86] | 0.80 ms [0.77–0.95] | unsupported | unsupported | unsupported | unsupported | 1.30 ms [1.20–2.32] | 1.26 ms [1.20–1.37] | 0.84 ms [0.82–0.89] | unsupported | 0.72 ms [0.70–0.76] |
+| 10 | 1 | 0.75 ms [0.69–0.82] | 0.73 ms [0.68–0.76] | unsupported | unsupported | unsupported | unsupported | 4.66 ms [4.63–4.83] | 1.01 ms [0.94–1.11] | 0.79 ms [0.75–1.30] | unsupported | 0.43 ms [0.42–0.47] |
+| 10 | 2 | 0.89 ms [0.86–0.94] | 0.92 ms [0.85–0.99] | unsupported | unsupported | unsupported | unsupported | 3.83 ms [3.79–3.95] | 1.40 ms [1.31–1.58] | 0.99 ms [0.96–1.03] | unsupported | 0.73 ms [0.72–0.78] |
+| 60 | 1 | 1.74 ms [1.70–1.81] | 1.78 ms [1.70–1.85] | unsupported | unsupported | unsupported | unsupported | 29.66 ms [29.51–30.48] | 1.61 ms [1.52–1.85] | 1.82 ms [1.79–2.16] | unsupported | 0.59 ms [0.55–0.61] |
+| 60 | 2 | 1.51 ms [1.49–1.58] | 1.54 ms [1.50–1.84] | unsupported | unsupported | unsupported | unsupported | 23.96 ms [23.89–26.74] | 2.24 ms [1.74–4.86] | 1.60 ms [1.56–3.57] | unsupported | 0.80 ms [0.78–0.88] |
+| 300 | 1 | 3.23 ms [3.15–10.37] | 3.11 ms [3.07–5.46] | unsupported | unsupported | unsupported | unsupported | 62.94 ms [62.10–69.88] | 2.33 ms [2.23–43.47] | 3.19 ms [3.15–3.24] | unsupported | 0.65 ms [0.64–0.68] |
+| 300 | 2 | 3.75 ms [3.63–4.04] | 3.55 ms [3.52–3.70] | unsupported | unsupported | unsupported | unsupported | 92.01 ms [91.62–159.70] | 2.75 ms [2.59–2.96] | 3.68 ms [3.63–5.74] | unsupported | 0.98 ms [0.96–1.03] |
 
 ## Unavailable and incorrect libraries
 
@@ -140,4 +143,4 @@ Libraries that failed the correctness gate for at least one cell:
 
 ## Measurement noise
 
-Across 360 `ok` measurements, the observed spread `(max - min) / median` ranges from 0.2% to 1295.2%, with a median of 6.4%. That is the measurement-noise floor of this run: differences between libraries, formats, or durations smaller than this floor are noise, not rankings.
+Across 504 `ok` measurements, the observed spread `(max - min) / median` ranges from 0.2% to 1777.5%, with a median of 4.5%. That is the measurement-noise floor of this run: differences between libraries, formats, or durations smaller than this floor are noise, not rankings.

diff --git a/README.md b/README.md
@@ -163,7 +163,7 @@ distinct finding.
 
 ## Results
 
-Measured on an Apple M-series Mac (macOS 26.5, arm64), Python 3.12, **median of 15 trials**
+Measured on an Apple M-series Mac (macOS 26.5, arm64), Python 3.12, median of 15 trials
 after one untimed warmup, warm page cache, stereo files. Full tables including mono and
 per-cell spread are in [`results/report.md`](results/report.md).
 
@@ -171,64 +171,72 @@ per-cell spread are in [`results/report.md`](results/report.md).
 
 ![seek decode](results/seek.png)
 
-512 records: 360 measured, 144 unsupported (a library that cannot read that container, or
-cannot seek), 8 incorrect. Dispersion, measured as **IQR / median**, has a median of 0.064
-and a 90th percentile of 0.215, so **treat differences below roughly 10% as ties**. The
-interquartile range is used rather than max−min because the full range grows with the
-trial count, which makes runs with different `--repeat` values incomparable.
+704 records over eleven libraries: 504 measured, 176 unsupported, 8 incorrect, 16 errored.
+Dispersion (IQR / median) has a median of 0.045 and a 90th percentile of 0.163, so **treat
+differences below roughly 10% as ties**. The interquartile range is used rather than
+max−min because the full range grows with the trial count, making runs with different
+`--repeat` values incomparable.
 
-### Full-file decode, stereo, 300 s, median ms
+### Full-file decode, stereo, 300 s, median ms (lower is better)
 
-| format | soundfile | scipy | scipy_mmap | pedalboard | torchcodec | librosa | audioread | pydub |
-|---|---:|---:|---:|---:|---:|---:|---:|---:|
-| wav_pcm16 | 53.84 | 26.98 | 26.23 | **20.96** | 51.12 | 49.15 | 76.42 | 28.88 |
-| wav_float | 22.10 | 28.09 | 24.32 | **20.96** | 39.05 | 21.95 | — | 194.07 |
-| flac | 167.35 | — | — | **155.07** | 191.98 | 184.29 | 272.25 | 198.82 |
-| mp3 | **166.47** | — | — | 295.36 | 223.56 | 188.37 | 388.06 | 392.39 |
+| format | best | others |
+|---|---|---|
+| wav_pcm16 | **pedalboard 20.46** | scipy_mmap 20.55 · audiosample 24.18 · scipy 24.52 · pydub 27.69 · librosa 48.51 · soundfile 49.09 · torchcodec 50.31 · sphn 56.77 · audiolab 57.38 · audioread 75.30 |
+| wav_float | **scipy_mmap 17.15** | pedalboard 21.26 · librosa 21.63 · soundfile 21.76 · audiolab 23.15 · scipy 24.03 · torchcodec 34.96 · sphn 62.42 · pydub 165.81 |
+| flac | **sphn 119.33** | pedalboard 155.12 · soundfile 167.03 · librosa 167.57 · pydub 170.06 · audiolab 179.27 · torchcodec 188.90 · audioread 274.97 |
+| mp3 | **librosa 169.59** | soundfile 172.82 · audiolab 186.40 · sphn 200.96 · torchcodec 217.86 · pedalboard 286.26 · pydub 336.08 · audioread 381.93 |
 
-### Seek — decode 1 s from an offset, stereo, median ms
+### Seek — decode 1 s from an offset, stereo, 300 s file, median ms
 
-| format / duration | soundfile | scipy_mmap | pedalboard | torchcodec | librosa |
-|---|---:|---:|---:|---:|---:|
-| wav_pcm16, 300 s | 0.36 | 5.08 | **0.22** | 25.09 | 0.40 |
-| wav_float, 300 s | 0.36 | 5.58 | **0.23** | 0.75 | 0.29 |
-| flac, 300 s | 0.91 | — | **0.86** | 2.69 | 1.01 |
-| mp3, 1 s | 0.81 | — | 1.35 | 1.28 | **0.76** |
-| mp3, 300 s | 3.71 | — | 95.55 | **2.77** | 3.84 |
+| format | best | others |
+|---|---|---|
+| wav_pcm16 | **audiosample 0.20** | sphn 0.22 · pedalboard 0.23 · librosa 0.32 · soundfile 0.37 · audiolab 0.38 · scipy_mmap 0.73 · torchcodec 24.20 |
+| wav_float | **sphn 0.24** | pedalboard 0.27 · librosa 0.27 · soundfile 0.29 · audiolab 0.31 · torchcodec 0.64 · scipy_mmap 0.95 |
+| flac | **sphn 0.53** | pedalboard 0.86 · soundfile 0.90 · librosa 0.91 · audiolab 0.97 · torchcodec 2.52 |
+| mp3 | **sphn 0.98** | torchcodec 2.75 · librosa 3.55 · audiolab 3.68 · soundfile 3.75 · pedalboard 92.01 |
 
 ### Findings
 
-**1. Seeking separates these libraries far more than full-file decoding.** For full reads
-the good implementations sit within a factor of two of each other. For excerpts,
-`soundfile`, `pedalboard` and `librosa` return a 1 s slice of a 300 s WAV in 0.2–0.4 ms —
-*independent of file length* — while others scale with the file. If you build training
-batches from excerpts, this is the table that matters. The previous version of this
-benchmark never measured it.
+**1. Seeking separates these libraries far more than full-file decoding does.** For full
+reads the good implementations sit within a factor of two or three. For excerpts the
+spread is two orders of magnitude. If you build training batches from excerpts, the seek
+table is the one that matters — and it is the one earlier versions of this benchmark
+never measured.
 
-**2. `pedalboard` does not seek in MP3.** Its excerpt time grows with file duration —
-1.35, 3.87, 24.14, 95.55 ms at 1/10/60/300 s — the signature of decoding from the start
-and discarding. It seeks properly in WAV and FLAC (flat at ~0.2 and ~0.9 ms). `torchcodec`
-returns the same 300 s MP3 excerpt in 2.77 ms, **34x faster**, so the container is not the
-obstacle.
+**2. `sphn` is the strongest seeker**, and by a wide margin on compressed formats: 0.98 ms
+to pull a 1 s excerpt from a 300 s MP3, against 2.75 ms for `torchcodec` and 92.01 ms for
+`pedalboard`. Its MP3 seek is essentially flat with duration (0.72 → 0.73 → 0.80 →
+0.98 ms at 1/10/60/300 s). It is also the fastest full-file FLAC reader here. It is *not*
+fast at reading whole WAV files (56–62 ms, near the back of the field), so it is a
+seeking-oriented library rather than a uniformly fast one.
 
-**3. `torchcodec` pays a large penalty on 16-bit PCM.** Full-file it needs 10.42 ms for a
-1 s `wav_pcm16` file where `soundfile` needs 0.32 ms. Seeking, it costs 25.09 ms on
-`wav_pcm16` against 0.75 ms on `wav_float` — a **33x gap** for the same duration, channel
-count and container. The cost tracks the s16 conversion path, not WAV itself. Given
-`torchcodec` is otherwise the strongest MP3 seeker here, this is worth knowing before
-standardising on 16-bit WAV for a torch pipeline.
+**3. `pedalboard` does not seek in MP3.** Its excerpt time grows with file duration —
+1.30, 3.83, 23.96, 92.01 ms at 1/10/60/300 s — the signature of decoding from the start
+and discarding. It seeks properly in WAV and FLAC (flat at ~0.2 and ~0.9 ms), and it is
+the fastest full-file 16-bit WAV reader, so this is specifically an MP3 seek limitation.
 
-**4. `audioread` cannot round-trip float32 audio.** Its output differs from the reference
+**4. `torchcodec` pays a large penalty on 16-bit PCM when seeking**: 24.20 ms on
+`wav_pcm16` against 0.64 ms on `wav_float` — a 38x gap for the same duration, channel
+count and container. The cost tracks the s16 conversion path rather than WAV itself.
+Worth knowing before standardising on 16-bit WAV for a torch pipeline.
+
+**5. `audioread` cannot round-trip float32 audio.** Its output differs from the reference
 by exactly 1.53e-05 = 1/65536 — the int16 quantisation step — on every float WAV file; it
 decodes at 16-bit precision internally. Those 8 results are reported `incorrect` and their
 timings withheld. No earlier version of this benchmark could detect this, because none
 verified output at all.
 
-**5. `librosa` tracks `soundfile` closely** on WAV (21.95 vs 22.10 ms on float), which is
-expected: it delegates to it. It is not an independent decoder.
+**6. `audiosample` handles integer-PCM WAV only** in this environment, and it is the
+fastest seeker there (0.20 ms). Float WAV, FLAC and MP3 route through its PyAV path, which
+raises against PyAV 18 (`Flags.FAST_SEEK`); those 16 results are reported `error` with that
+reason rather than hidden.
 
-**6. `scipy` is WAV-only.** Its memmap variant is competitive for full reads but a poor
-seeker here (5+ ms), since slicing a memmap still faults in pages through the OS.
+**7. `librosa` tracks `soundfile` closely** on WAV, as expected — it delegates to it. It is
+not an independent decoder.
+
+**8. `scipy` is WAV-only** and its memmap variant is the fastest full-file float WAV reader
+here, but it is a mediocre seeker (0.73–0.95 ms), since slicing a memmap still faults pages
+in through the OS.
 
 ## Development
 
